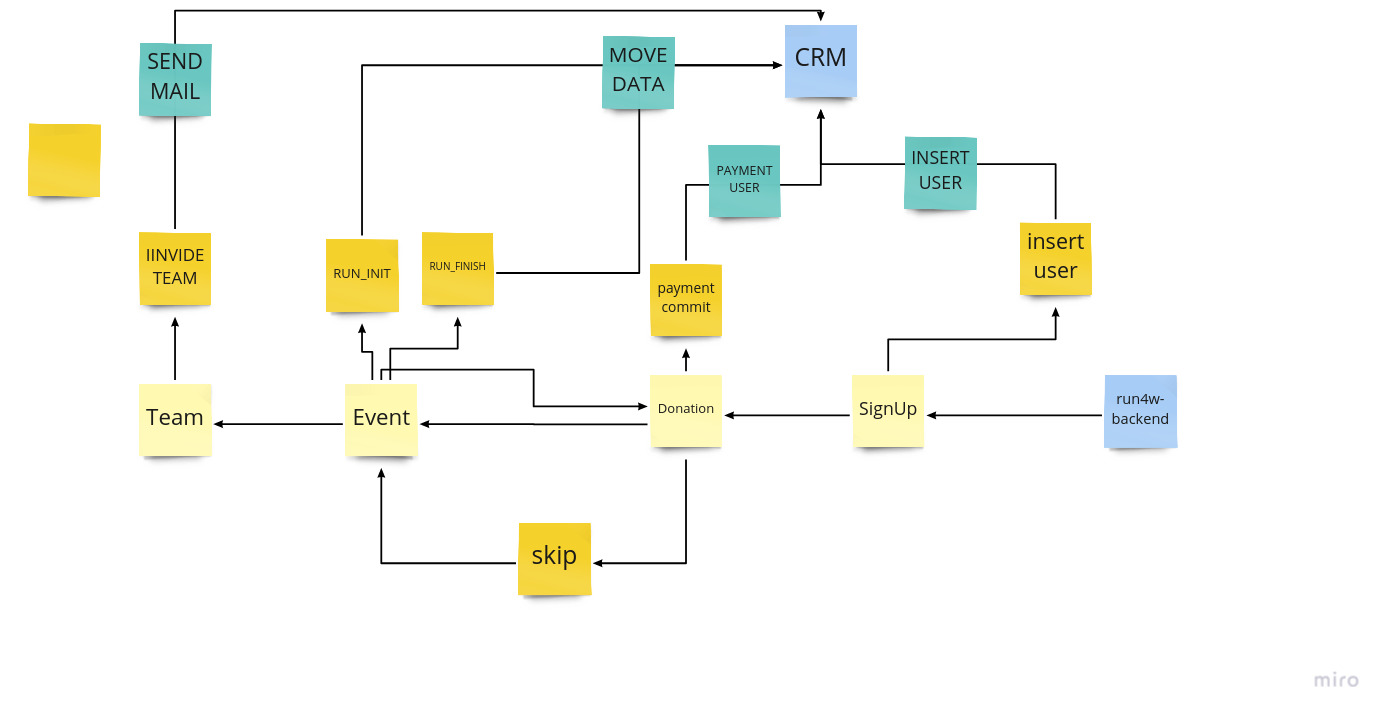
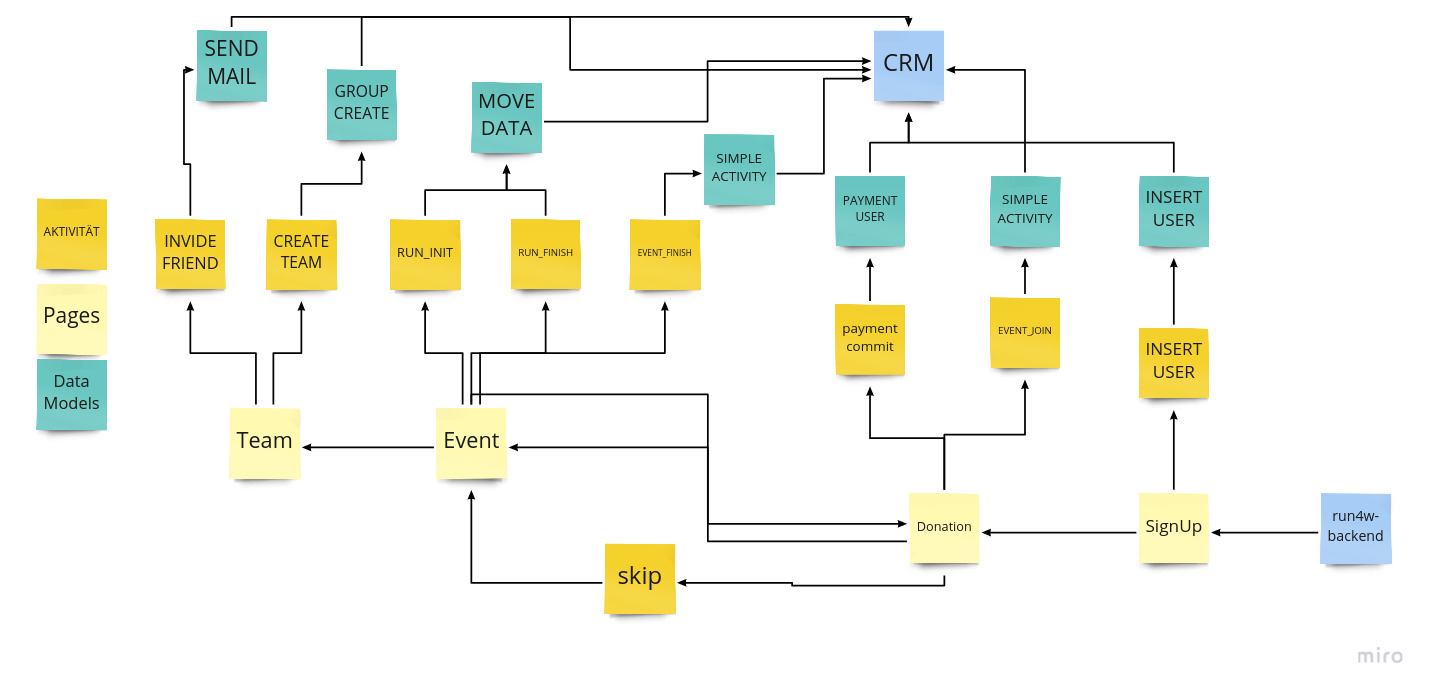
changes

diff --git a/howto/CiviCrm.md b/howto/CiviCrm.md
@@ -15,6 +15,16 @@
 
 ![Workflow](Workflow_Run4Water.jpg)
 
+### SIMPLE ACTIVITY
+
+```
+  "crm_data": {
+    "campaign_id": 17,
+    "drops_id": "540e695b-341e-4256-8a3b-9aa874332f60",
+    "activity": "EVENT_JOIN"
+  }
+```
+
 ### INSERT USER crm model
 ```
 {
@@ -88,3 +98,14 @@
     "time": 0
   }
 ```
+
+### GROUP CREATE
+
+
+```
+  "crm_data": {
+    "campaign_id": 17,
+    "drops_id": "540e695b-341e-4256-8a3b-9aa874332f60",
+    "activity": "MOVE_DATA"
+  },
+  "group_name": "teamname"
